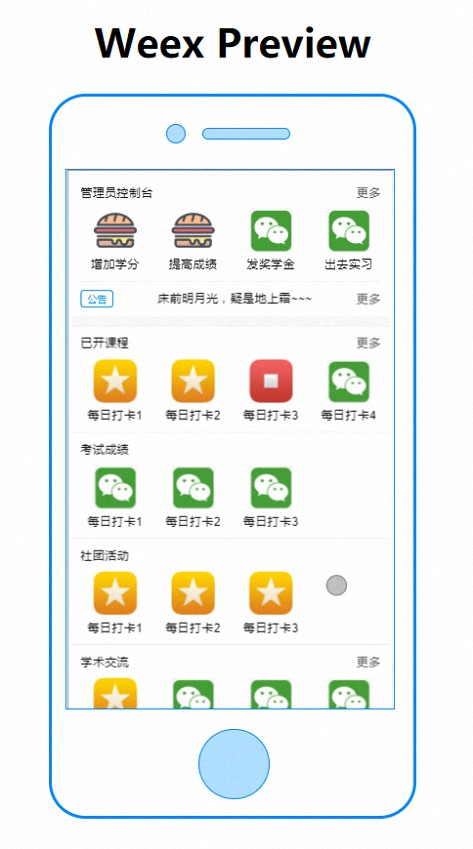
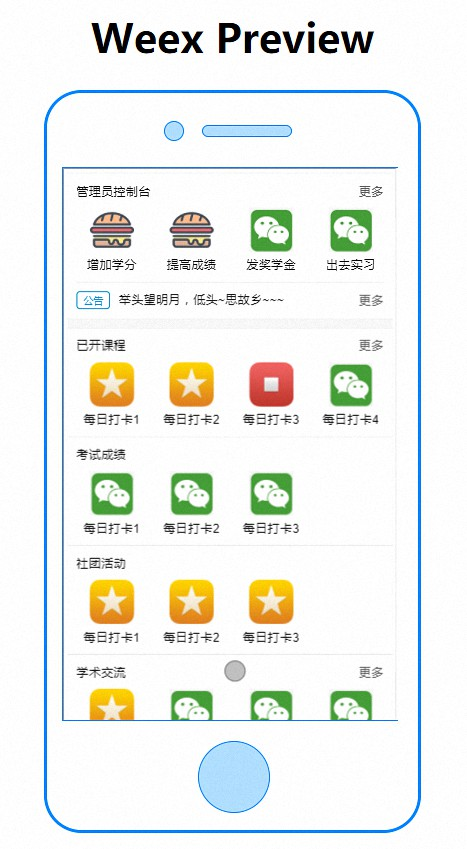
修复 SliderNews 文字居中的问题

diff --git a/dist/app.web.js b/dist/app.web.js
@@ -1001,7 +1001,7 @@
 
 
 	// module
-	exports.push([module.id, "\n.container[data-v-214b4db8] {\r\n    flex-direction: row;\r\n    justify-content: space-between;\r\n    align-items: stretch;\r\n    padding-top: 20px;\r\n    padding-bottom: 20px;\r\n    height: 82px;\n}\n.title[data-v-214b4db8] {\r\n    color: #0b98d8;\r\n    border-width: 2px;\r\n    border-color: #0b98d8;\r\n    border-radius: 8px;\r\n    padding-top: 4px;\r\n    padding-bottom: 4px;\r\n    padding-left: 14px;\r\n    padding-right: 14px;\r\n    font-size: 22px;\n}\n.content[data-v-214b4db8] {\r\n    flex: 1;\r\n    flex-direction: row;\r\n    align-items: flex-end;\r\n    margin-left: 20px;\r\n    margin-right: 20px;\r\n    height: 42px;\n}\n.content-item[data-v-214b4db8] {\n}\n.content-text[data-v-214b4db8] {\r\n    text-align: left;\r\n    text-overflow: ellipsis;\r\n    font-size: 28px;\r\n    line-height: 42px;\r\n    lines: 1;\r\n    /* white-space: nowrap;\r\n    overflow: hidden;  */\r\n    text-overflow: ellipsis;\n}\n.aside[data-v-214b4db8] {\r\n    color: #666;\r\n    font-size: 28px;\r\n    line-height: 42px;\n}\r\n", ""]);
+	exports.push([module.id, "\n.container[data-v-214b4db8] {\r\n    flex-direction: row;\r\n    justify-content: space-between;\r\n    align-items: stretch;\r\n    padding-top: 20px;\r\n    padding-bottom: 20px;\r\n    height: 82px;\n}\n.title[data-v-214b4db8] {\r\n    color: #0b98d8;\r\n    border-width: 2px;\r\n    border-color: #0b98d8;\r\n    border-radius: 8px;\r\n    padding-top: 4px;\r\n    padding-bottom: 4px;\r\n    padding-left: 14px;\r\n    padding-right: 14px;\r\n    font-size: 22px;\n}\n.content[data-v-214b4db8] {\r\n    flex: 1;\r\n    flex-direction: row;\r\n    align-items: flex-end;\r\n    margin-left: 20px;\r\n    margin-right: 20px;\r\n    height: 42px;\n}\n.content-item[data-v-214b4db8] {\r\n     align-self: flex-start;\n}\n.content-text[data-v-214b4db8] {\r\n    text-align: left;\r\n    text-overflow: ellipsis;\r\n    font-size: 28px;\r\n    line-height: 42px;\r\n    lines: 1;\r\n    /* white-space: nowrap;\r\n    overflow: hidden;  */\r\n    text-overflow: ellipsis;\n}\n.aside[data-v-214b4db8] {\r\n    color: #666;\r\n    font-size: 28px;\r\n    line-height: 42px;\n}\r\n", ""]);
 
 	// exports
 

diff --git a/android/app/src/main/assets/app.weex.js b/android/app/src/main/assets/app.weex.js
@@ -635,6 +635,9 @@
 	    "marginRight": 20,
 	    "height": 42
 	  },
+	  "content-item": {
+	    "alignSelf": "flex-start"
+	  },
 	  "content-text": {
 	    "textAlign": "left",
 	    "textOverflow": "ellipsis",

diff --git a/dist/app.weex.js b/dist/app.weex.js
@@ -635,6 +635,9 @@
 	    "marginRight": 20,
 	    "height": 42
 	  },
+	  "content-item": {
+	    "alignSelf": "flex-start"
+	  },
 	  "content-text": {
 	    "textAlign": "left",
 	    "textOverflow": "ellipsis",

diff --git a/src/components/SliderNews.vue b/src/components/SliderNews.vue
@@ -51,7 +51,9 @@ export default {
     height: 42px;
 }
 
-.content-item {}
+.content-item {
+     align-self: flex-start;
+}
 
 .content-text {
     text-align: left;

diff --git a/README.md b/README.md
@@ -23,6 +23,7 @@ npm run serve
     - `constants`: 存放常量
     - `data`: 存放数据
     - `App.vue`: 页面入口
+* `android`: Android (native for Weex)
 * `app.js`: Weex 入口
 * `index.html`: Weex Web 端预览
 
@@ -59,9 +60,9 @@ npm run serve
     </activity>
 </application>
 ```
-- Android 图片无法加载？
-原因：需自己手动实现，这里使用了 Picasso 开源库，移步：https://github.com/square/picasso
-- Web 端正常而 Weex 端布局出错？
+- Android 图片无法加载？  
+原因：需自己手动实现图片加载，这里用了 Picasso 开源库，请移步：https://github.com/square/picasso
+- Web 端正常而 Weex 端布局出错？  
 原因：由于平台问题，Weex 端不支持很多 Web 端的 CSS 属性，比如`border: 1px solid #ccc`要分开写，`flex`属性要写完整等等。
 
 ## 其他
